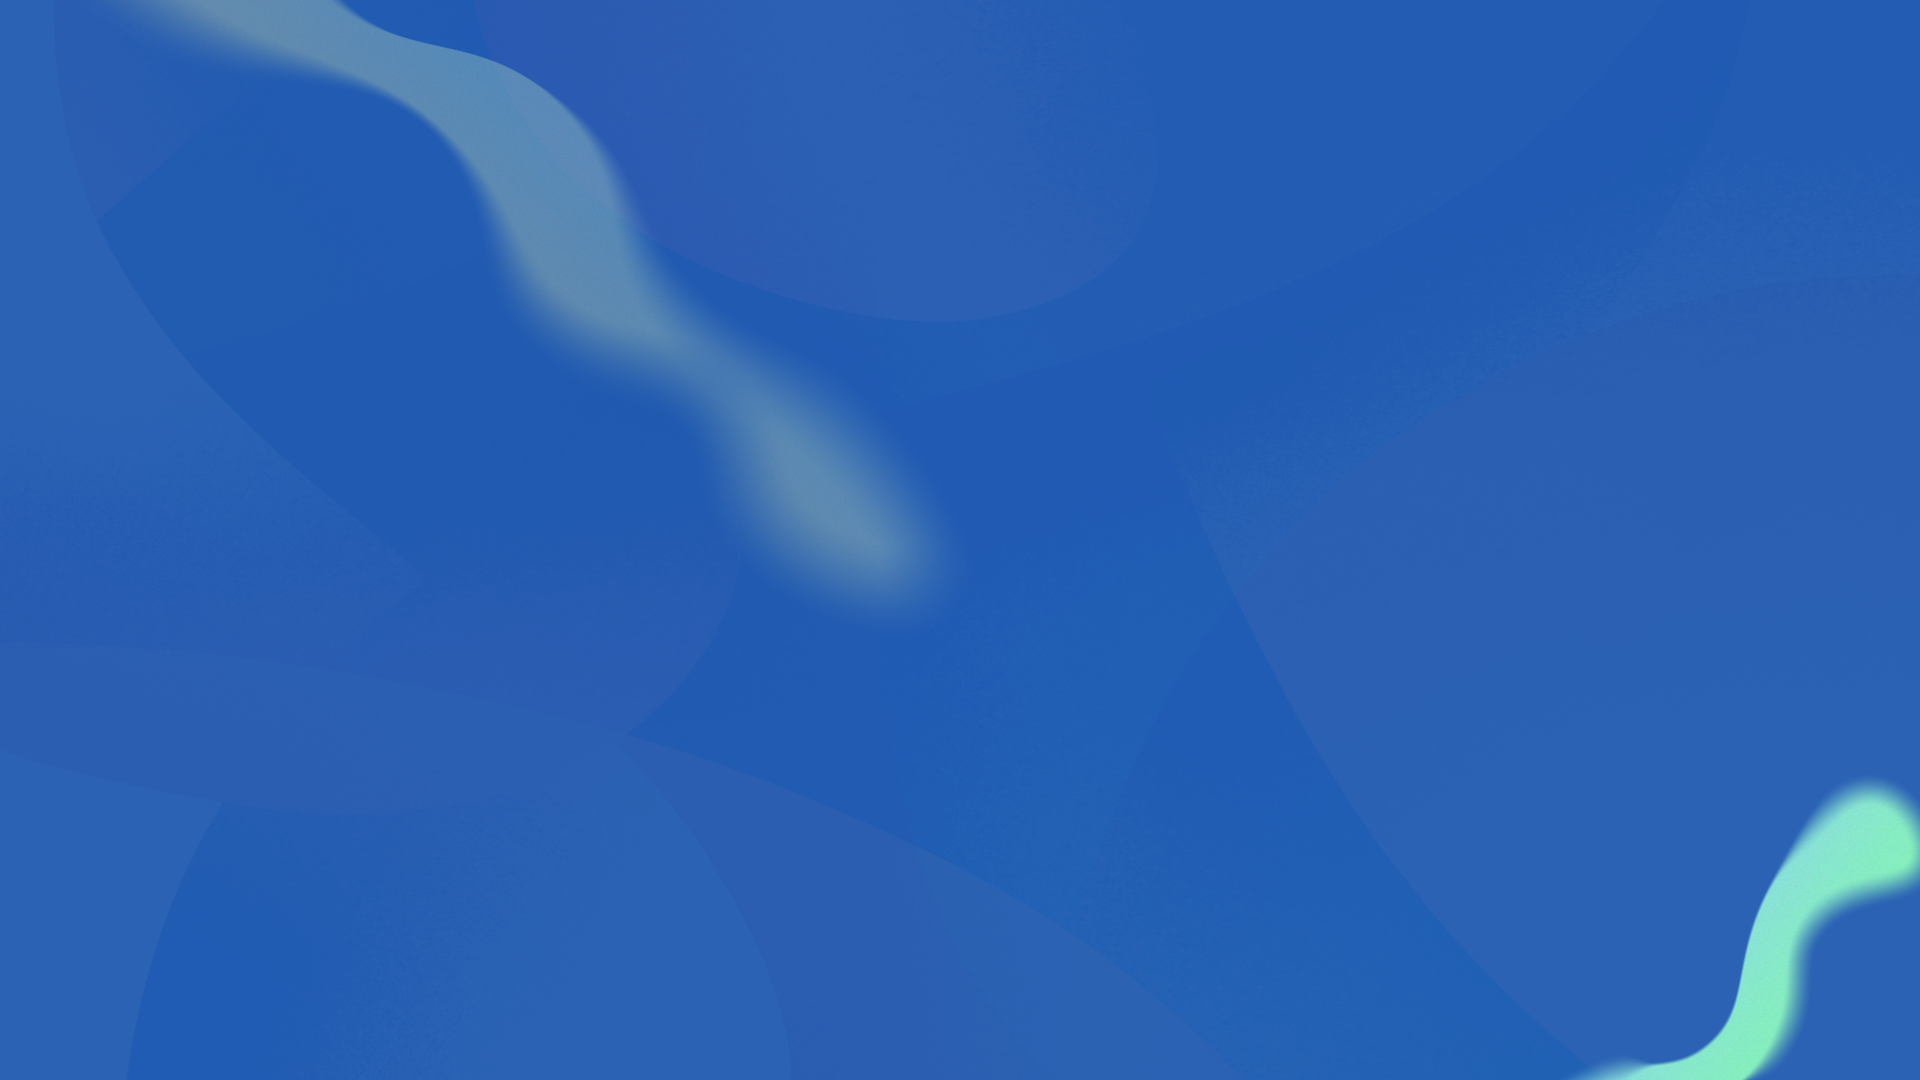
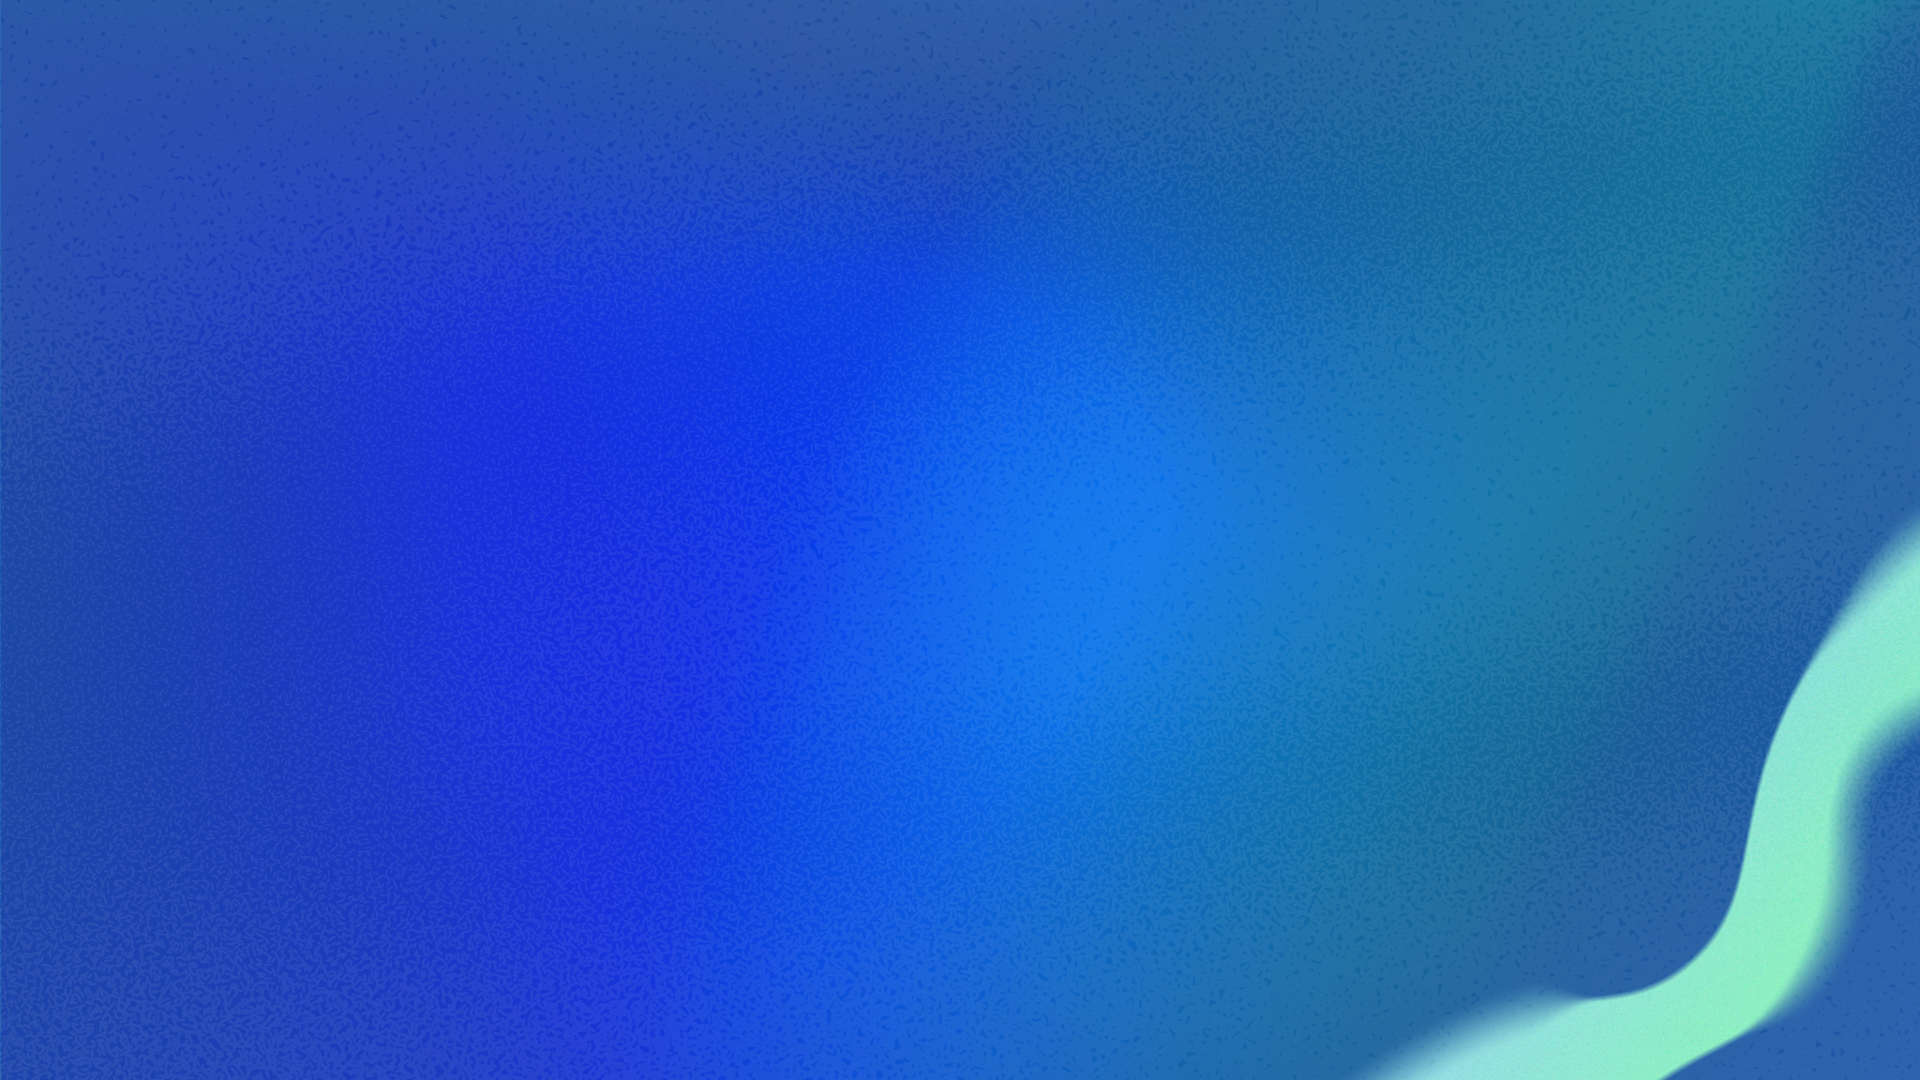
1.4.3 update website

diff --git a/src/routes/+page.svelte b/src/routes/+page.svelte
@@ -103,14 +103,19 @@
 <!-- <div class="banner">
     <span>There has been failure with Edel. An update is being released soon, addressing this issue.</span>
 </div> -->
-<main class=" h-[100vh] flex justify-center items-center bg-cover text-slate-100" style="background-image: url('/main4.png')">
-    <div class="flex flex-col items-center">
+<main class=" h-[100vh] flex justify-center items-center  text-slate-100 font-sans bg-blue-600">
+    <div class=" w-[60vw] h-[60vw] bg-blue-200 rounded-full filter blur-md fixed mix-blend-multiply animate-blob left-10 top-[-50] animation-delay-4000"></div>
+    <div class=" w-[40vw] h-[40vw] bg-blue-200 rounded-full filter blur-md fixed mix-blend-multiply animate-blob left-30 top-60 animation-delay-3000"></div>
+    <div class=" w-[50vw] h-[50vw] bg-blue-200 rounded-full filter blur-md fixed mix-blend-multiply animate-blob right-0 bottom-10 animation-delay-1000"></div>
+    <div class=" w-[30vw] h-[30vw] bg-blue-200 rounded-full filter blur-md fixed mix-blend-multiply animate-blob left-0 bottom-10 animation-delay-1000"></div>
+    <div class=" w-[70vw] h-[70vw] bg-blue-200 rounded-full filter blur-md fixed mix-blend-multiply animate-blob right-0 top-10 animation-delay-4000"></div>
+    <div class="flex flex-col items-center z-10">
         <div class="flex flex-row">
             <img src="/newicon.png" alt="Edel icon" class="md:w-24 md:h-24 w-14 h-14">
-            <h1 class="lg:text-8xl text-6xl font-bold text-center">Readel</h1>
+            <h1 class="lg:text-8xl text-6xl font-bold text-center ">Readel</h1>
         </div>
         <div class="flex flex-row">
-            <div class="font-medium text-zinc-300">
+            <div class="font-medium text-zinc-100">
                 Minimal <strong>text-to-speech</strong> browser extension. 
             </div>
         </div>
@@ -121,7 +126,7 @@
                     <svg xmlns="http://www.w3.org/2000/svg" width="16" height="16" viewBox="0 0 24 24" fill="none" stroke="currentColor" stroke-width="2" stroke-linecap="round" stroke-linejoin="round" class="feather feather-external-link"><path d="M18 13v6a2 2 0 0 1-2 2H5a2 2 0 0 1-2-2V8a2 2 0 0 1 2-2h6"/><polyline points="15 3 21 3 21 9"/><line x1="10" y1="14" x2="21" y2="3"/></svg>
                 </div>
                 <div class="flex flex-row items-center justify-center transform transition duration-100 hover:scale-125">
-                    <a class="mr-2" href="/buycredits">Get credits</a>
+                    <a class="mr-2" href="https://ag7phnq517o.typeform.com/to/l5CF8S1H" target="_blank">Feature Vote</a>
                     <svg xmlns="http://www.w3.org/2000/svg" width="16" height="16" viewBox="0 0 24 24" fill="none" stroke="currentColor" stroke-width="2" stroke-linecap="round" stroke-linejoin="round" class="feather feather-external-link"><path d="M18 13v6a2 2 0 0 1-2 2H5a2 2 0 0 1-2-2V8a2 2 0 0 1 2-2h6"/><polyline points="15 3 21 3 21 9"/><line x1="10" y1="14" x2="21" y2="3"/></svg>
                 </div>
                 <div class="flex flex-row items-center justify-center transform transition duration-100 hover:scale-125">
@@ -144,6 +149,12 @@
         </div>
         <div class="my-10">
             <button on:click={() => getAudio()} type="button" class="text-blue-100 bg-blue-700 hover:bg-blue-800 focus:outline-none focus:ring-4 focus:ring-blue-300 font-medium rounded-full text-sm px-5 py-2.5 text-center me-2 mb-2 dark:bg-blue-600 dark:hover:bg-blue-700 dark:focus:ring-blue-800">{source ? 'Pause audio' : 'Play sample'}</button>
+        </div>
+        <div class="w-[100%] fixed bottom-2 flex flex-col justify-center items-center">
+            <h1 class="px-4 text-sm">Supported by </h1>
+            <a href="https://elevenlabs.io/text-to-speech">
+                <img src="https://storage.googleapis.com/eleven-public-cdn/images/elevenlabs_grants_white.png" alt="Text to Speech" style="width:150px">
+            </a>
         </div>
     </div>
 </main>

diff --git a/src/routes/updates/+page.svelte b/src/routes/updates/+page.svelte
@@ -8,11 +8,31 @@
             Home 
     </a>
 </section>
-<main class="bg-[#01634F] w-full min-h-[100vh] h-full pt-56">
+<main class="bg-[#01634F] w-full min-h-[100vh] h-full pt-56 font-sans">
     <div class="md:px-24 p-4">
         <div class="Title">
             <h1 class="text-green-100 font-bold md:text-6xl text-4xl">Readel updates</h1>
             <p class="text-green-400 text-2xl">Find the recent updates and learn what's new to Readel.</p>
+        </div>
+        <div class="update-main">
+            <h2 class="update-heading">31/03/2024 • 1.4.2</h2>
+            <div class="update-container">
+                <h4 class="update-item">Readel is now FREE.</h4>
+                <p class="update-desc">
+                    Readel was succesfully picked to be part of <a href="https://elevenlabs.io/text-to-speech" class="underline">ElevenLabs grant</a> program and now has access to
+                    better recources and free credits. This means that I can remove the cost of Readel for the time being.
+                </p>
+            </div>
+            <div class="update-container">
+                <h4 class="update-item">Skip to the next track.</h4>
+                <p class="update-desc">You can now skip to the next sentence. Personally, my favourite feature in this update.</p>
+            </div>
+            <div class="update-container">
+                <h4 class="update-item">More UI updates.</h4>
+                <p class="update-desc">
+                    I've made some improvements to Readel's UI again. The button is now in the middle right side of the screen to stop the button from getting in the way. Please let me know what you think of the change.
+                </p>
+            </div>
         </div>
         <div class="update-main">
             <h2 class="update-heading">15/03/2024 • 1.4.1</h2>
@@ -21,7 +41,7 @@
                 <p class="update-desc">
                     You are now able to purchase credits for Readel. <strong>This is where your feedback is important.</strong>
                     Please be candid on what you think about the prices or payment model. I want 
-                    to pick one you are all happy with. Let me know via the <a href="https://ag7phnq517o.typeform.com/to/K5GTEV9L" class="underline">feedback</a>
+                    to pick one you are all happy with. Let me know via the <a href="https://ag7phnq517o.typeform.com/to/K5GTEV9L" class="underline">feedback</a>.
                 </p>
             </div>
             <div class="update-container">

diff --git a/src/app.css b/src/app.css
@@ -1,13 +1,35 @@
+@import url('https://fonts.googleapis.com/css2?family=Rubik:ital,wght@0,300..900;1,300..900&display=swap');
 @tailwind base;
 @tailwind components;
 @tailwind utilities;
+
+@layer base {
+    html {
+      font-family: Rubik, system-ui sans-serif;
+    }
+  }
+
+@layer utilities {
+    .animation-delay-1000 {
+        animation-delay: 1s
+    }
+    .animation-delay-2000 {
+        animation-delay: 5s
+    }
+    .animation-delay-3000 {
+        animation-delay: 10s
+    }
+    .animation-delay-4000 {
+        animation-delay: 8s
+    }
+}
 
 @layer components {
     .update-main {
         @apply space-y-5 mt-20 pb-10
     }
     .update-container {
-    @apply h-full md:px-10 px-2
+    @apply h-full md:px-10 px-0
     }
     .update-heading{
     @apply text-green-400 md:text-4xl text-lg font-bold opacity-50;

diff --git a/tailwind.config.js b/tailwind.config.js
@@ -2,7 +2,30 @@
 export default {
   content: ['./src/**/*.{html,js,svelte,ts}'],
   theme: {
-    extend: {},
+    extend: {
+      animation: {
+        blob: "blob 20s infinite",
+      },
+      keyframes:{
+        blob: {
+          "0%":{
+            transform: "translate(0px, 0px) scale(1)"
+          },
+          "33%":  {
+            transform: "translate(-100px, -50px) scale(1.1)",
+          },
+          "66%": {
+            transform: "translate(160px, -105px) scale(0.9)",
+          },
+          "100%": {
+            transform: "translate(0px, 0px) scale(1)"
+          }
+        }
+      }
+    },
+    fontFamily: {
+      'sans': ['Rubik']
+    }
   },
   plugins: [],
 }
